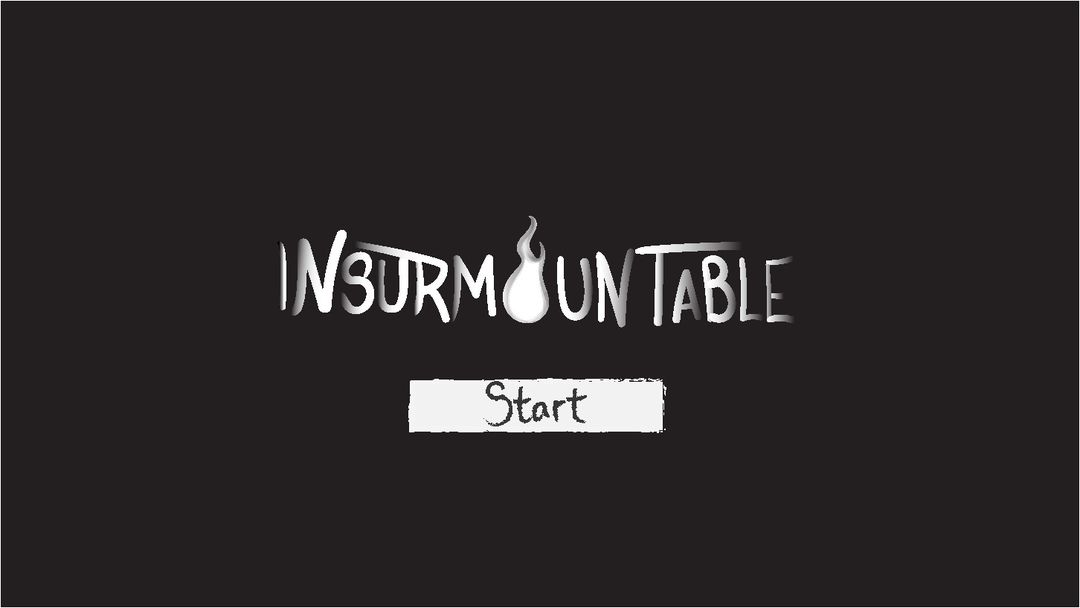
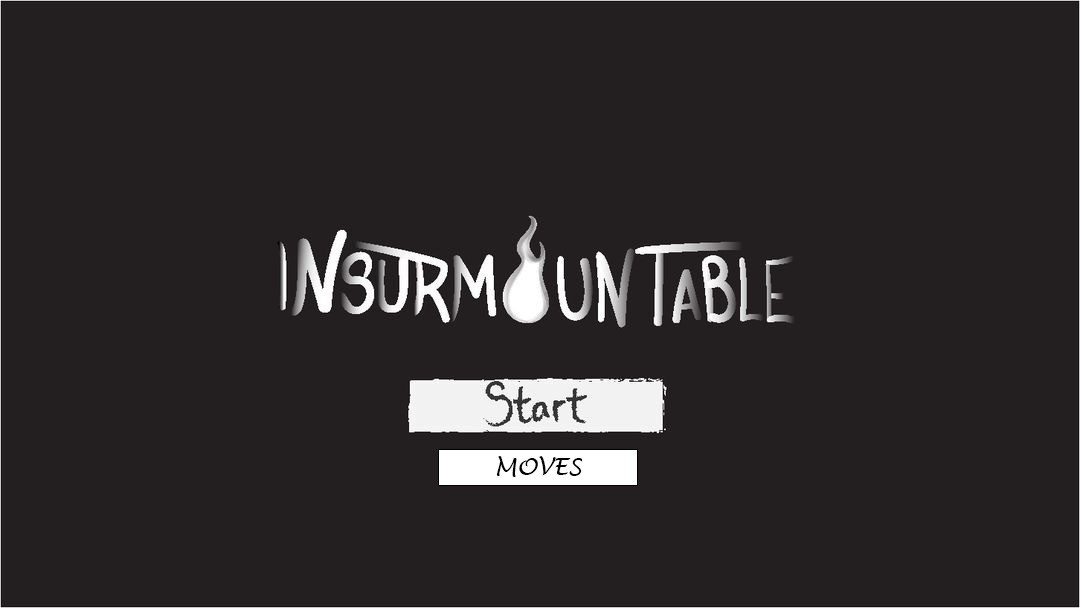
added info screen, dodge cooldown bar, and bounceback

Changed region(s): [[0.3972, 0.7188, 0.6111, 0.8125]]

diff --git a/insurmountable/GamePanelOOP.java b/insurmountable/GamePanelOOP.java
@@ -22,7 +22,7 @@ class GamePanelOOP extends JPanel implements GameConstants {
 
 		// game object initialization
 		player = new Player(GAME_W / 2, GAME_H / 2, "src/images/Player/sprite");
-		startScreen = new StartScreen("src/images/GUI/startscreen.png");
+		startScreen = new StartScreen("src/images/GUI/");
 		endScreen = new EndScreen("src/images/GUI/");
 		boss = new Boss(GAME_W / 2, 50, "src/images/Boss/Boss");
 		gui = new GUI(player, boss);
@@ -110,6 +110,10 @@ class GamePanelOOP extends JPanel implements GameConstants {
 	}
 
 	public void updateCollides(Player p, Boss b) {
+		if(p.hitbox.intersects(b.hitbox)) {
+			p.bounceBack();
+			p.comboReset();
+		}
 		// Check if player attack hit
 		if (p.attacking) {
 			if (p.attackHitbox.intersects(b.hitbox)) {
@@ -139,18 +143,21 @@ class GamePanelOOP extends JPanel implements GameConstants {
 		setDoubleBuffered(true);
 
 		// While they dont click start display the menu
-		if (!startScreen.menu) {
+		if (!startScreen.menu && !startScreen.info) {
 			g.setColor(Color.white);
 			g.fillRect(0, 0, GAME_W, GAME_H);
 			g.drawImage(startScreen.start, -40, -40, null);
 
 			// When they enter game display game
-		} else if (startScreen.menu && !endScreen.gameEnd) {
+		}else if(startScreen.info) {
+			g.drawImage(startScreen.moves, 0, 0, null);
+		} 
+		else if (startScreen.menu && !endScreen.gameEnd) {
 			g.setColor(Color.white);
 			g.fillRect(0, 0, GAME_W, GAME_H);
 			boss.draw(g);
-			player.draw(g);
 			gui.draw(g);
+			player.draw(g);
 		} else if (endScreen.gameEnd) {
 			if (boss.getHealth() <= 0) {
 				g.setColor(Color.white);

diff --git a/insurmountable/Player.java b/insurmountable/Player.java
@@ -204,19 +204,19 @@ class Player implements GameConstants {
 				attacking = true;				
 				attackTimer = Time.getTime();		
 				if(lastM == 0) {
-					attackHitbox = new Rectangle(this.x, this.y+30, 10,10); 
+					attackHitbox = new Rectangle(this.x, this.y+60, 50,50); 
 					currentAnimation = 8;
 				}
 				if(lastM == 1) {
-					attackHitbox = new Rectangle(this.x-30, this.y, 10,10); 
+					attackHitbox = new Rectangle(this.x-60, this.y, 50,50); 
 					currentAnimation = 6;
 				}
 				if(lastM == 2) {
-					attackHitbox = new Rectangle(this.x+30, this.y, 10,10);
+					attackHitbox = new Rectangle(this.x+60, this.y, 50,50);
 					currentAnimation = 5;
 				}
 				if(lastM == 3) {
-					attackHitbox = new Rectangle(this.x, this.y-30, 10,10);
+					attackHitbox = new Rectangle(this.x, this.y-60, 50,50);
 					currentAnimation = 7;
 				}
 			}
@@ -232,6 +232,8 @@ class Player implements GameConstants {
 		// moves the player based on the keys held
 		this.x += moveDistX;
 		this.y += moveDistY;
+		
+		//Borders 
 		if(!((this.x + moveDistX)+width+13 < GAME_W)) {
 			this.x = GAME_W-width-13;
 		}
@@ -258,6 +260,18 @@ class Player implements GameConstants {
 	public void comboReset() {
 		combo = 1;
 	}
+	public void bounceBack() {
+		health--;
+		if(lastM == 1) {
+			this.x += 100;
+		}
+		if(lastM == 2) {
+			this.x -= 100;
+		}
+		if(lastM == 3) {
+			this.y += 100;
+		}
+	}
 	
 	// getters and setters
 	public long getRollCooldown() {
@@ -272,5 +286,5 @@ class Player implements GameConstants {
     public void setHealth(int newHealth) {
     	health = newHealth;
     }
-
+   
 }

diff --git a/insurmountable/GUI.java b/insurmountable/GUI.java
@@ -22,6 +22,9 @@ public class GUI implements GameConstants {
 	// the size of the boss health bar
 	static final int BOSSBAR_H = 20;
 	static final int BOSSBAR_W = 700;
+	static final int DODGEBAR_H = 10;
+	static final int DODGEBAR_W = 50;
+	static final int DODGEBAR_EDGEOFFSET = 500;
 	// how far the health bar will be from edge of screen
 	static final int BOSSBAR_EDGEOFFSET = 50;
 
@@ -65,6 +68,12 @@ public class GUI implements GameConstants {
 		g.setColor(Color.RED);
 		if (boss.getHealth() > 0) {
 			g.fillRect(GAME_W - barWidth - BOSSBAR_EDGEOFFSET, GAME_H - BOSSBAR_H - BOSSBAR_EDGEOFFSET, barWidth, BOSSBAR_H);
+		}
+		int dodgeBar = (int)(DODGEBAR_W * player.getRollCooldown() / DODGE_CD);
+		
+		g.setColor(Color.GREEN);
+		if (player.getRollCooldown() < DODGE_CD) {
+			g.fillRect(player.getX()+dodgeBar/2, player.getY()+player.getHeight(), (DODGEBAR_W) - dodgeBar, DODGEBAR_H);
 		}
 		
 		// draws combo multiplier

diff --git a/insurmountable/GameMouseListener.java b/insurmountable/GameMouseListener.java
@@ -16,9 +16,18 @@ class GameMouseListener implements MouseListener, GameConstants {
 
 	public void mouseClicked(MouseEvent e) {
 		// If the mouse is clicked within the box of the start, set menu to true
+		System.out.println("x = "+ e.getX()+ "y = "+ e.getY());
 		if (startScreen.menu == false) {
 			if (((e.getX() > 371) && (e.getX() < (620))) && ((e.getY() > 341) && (e.getY() < (390)))) {
 				startScreen.menu = true;
+			}
+			if(((e.getX() > 399) && (e.getX() < (596))) && ((e.getY() > 409) && (e.getY() < (444)))) {
+				startScreen.info = true;
+			}
+			if(startScreen.info) {
+				if(((e.getX() > 57) && (e.getX() < (132))) && ((e.getY() > 42) && (e.getY() < (72)))) {
+					startScreen.info = false;
+				}
 			}
 		}
 

diff --git a/insurmountable/StartScreen.java b/insurmountable/StartScreen.java
@@ -10,7 +10,9 @@ import javax.imageio.ImageIO;
 public class StartScreen {
 	//Declare methods
 	static boolean menu = false;
+	static boolean info = false;
 	BufferedImage start;
+	BufferedImage moves;
 	
 	//Create constructor
 	public StartScreen(String fileName) {
@@ -19,8 +21,9 @@ public class StartScreen {
 	
 	//Start load sprite method
 	public void loadSprite(String fileName) {
-		try {
-			start = ImageIO.read(new File(fileName));
+		try { 
+			start = ImageIO.read(new File(fileName + "startscreen.png"));
+			moves = ImageIO.read(new File(fileName + "infoscreen.png"));
 		} catch (IOException e) {
 			System.out.println("Couldn't Load Menu");
 		}

diff --git a/insurmountable/GameConstants.java b/insurmountable/GameConstants.java
@@ -14,9 +14,8 @@ interface GameConstants {
     static final long DODGE_TIME = 400;
     static final long ATTACK_TIME = 150;
     static final int PLAYER_MAXHP = 5;
-    static final int BOSS_MAXHP = 10;
+    static final int BOSS_MAXHP = 300;
     static final int MAX_COMBO = 10;
-
     static final int GRAVITY = 2;
     static final int FRAME_TIME = 30;
 }
